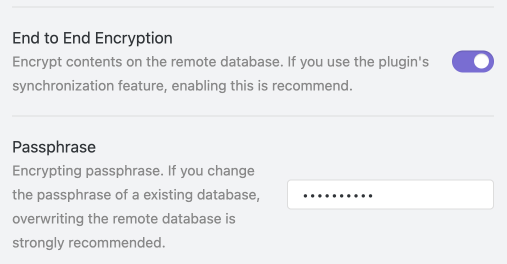
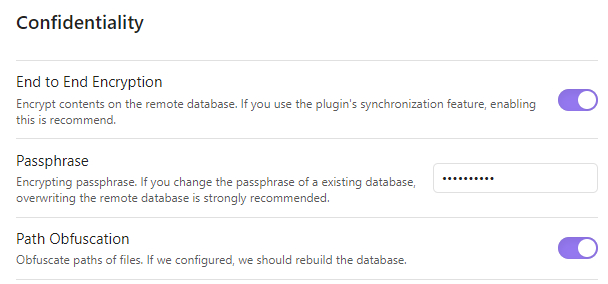
Update docs

diff --git a/docs/quick_setup.md b/docs/quick_setup.md
@@ -1,17 +1,17 @@
 # Quick setup
-The Setup wizard has been implemented since v0.15.0 simplifying the initial setup.
+The plugin has so many configuration options to deal with different circumstances. However, there are not so many settings that are actually used. Therefore, `The Setup wizard` has been implemented to simplify the initial setup.
 
-Note: Subsequent devices should be set up using the `Copy setup URI` and `Open setup URI` functionality.
+Note: Subsequent devices are recommended to be set up using the `Copy setup URI` and `Open setup URI`.
 
-## How to open and use the wizard
-Open the `🪄 Setup wizard` in the settings dialogue. If the plugin has not been configured before, it should already be open.
+## The Setup wizard
+Open the `🧙♂ Setup wizard` in the settings dialogue. If the plugin has not been configured before, it should already be open.
 
 ![](../images/quick_setup_1.png)
 
-### Discard the existing configuration and set up
+- Discard the existing configuration and set up  
 If you have changed any settings, this button allows you to discard all changes before setting up.
 
-### Do not discard the existing configuration and set up
+- Do not discard the existing configuration and set up  
 Simply reconfigure. Be careful. In wizard mode, you cannot see all configuration items, even if they have been configured.
 
 Pressing `Next` on one of the above options will put the configuration dialog into wizard mode.
@@ -30,17 +30,10 @@ Enter the information for the database we have set up.
 
 ![](../images/quick_setup_3.png)  
 
-### End to End Encryption
 
-![](../images/quick_setup_4.png)
+#### Test database connection and Check database configuration
 
-When End to End encryption is enabled, a third party will be less likely to be able to read your Remote database in the event of a data breach/leak (assuming they do not know the Passphrase). We strongly recommend enabling it.  
-Encryption is based on 256-bit AES-GCM.  
-This setting can be disabled if you are inside a closed network and it is clear that you will not be accessed by third parties.
-
-### Test database connection and Check database configuration
-
-Here we can check the status of the connection to the database and the database settings.  
+We can check the connectivity to the database, and the database settings.
 
 ![](../images/quick_setup_5.png)  
 
@@ -49,38 +42,36 @@ Check whether we can connect to the database. If it fails, there are several pos
 
 #### Check database configuration
 
-Check the database settings and fix any deficiencies on the spot.
+Check the database settings and fix any problems on the spot.
 
 ![](../images/quick_setup_6.png)
 
 This item may vary depending on the connection. In the above case, press all three Fix buttons.  
 If the Fix buttons disappear and all become check marks, we are done.
 
+
+### Confidentiality configuration
+
+![](../images/quick_setup_4.png)
+
+Encrypt your database in case of unintended database exposure; enable End to End encryption and the contents of your notes will be encrypted at the moment it leaves the device. We strongly recommend enabling it. And `Path Obfuscation` also obfuscates filenames. Now stable and recommended.  
+Encryption is based on 256-bit AES-GCM.  
+These setting can be disabled if you are inside a closed network and it is clear that you will not be accessed by third parties.
+
 ![](../images/quick_setup_7.png)
 
-### Next 
-Go to the Local Database configuration.
+#### Next 
+Go to the Sync Settings.
 
-### Discard existing database and proceed
-Discard the contents of the Remote database and go to the Local Database configuration.
+#### Discard existing database and proceed
+Discard the contents of the Remote database and go to the Sync Settings.
 
-## Local Database configuration
-
-![](../images/quick_setup_8.png)
-
-Configure the local database. If we already have a Vault with Self-hosted LiveSync installed which has the same directory name as the one we are currently setting up, please specify a different suffix than the Vault you have already set up here.
-
-## Miscellaneous
-Finally, finish the miscellaneous configurations and select a preset for synchronisation.
+### Sync Settings
+Finally, finish the wizard by selecting a preset for synchronisation.
 
 ![](../images/quick_setup_9_1.png)
 
-The `Show status inside editor` can be enabled to your liking. If enabled, the status is displayed in the top right-hand corner of the editor. Learn how to read the status bar [here](/README.md#information-in-statusbar).
-
-![](../images/quick_setup_9_2.png)
-
-From Presets, select the synchronisation method we want to use and `Apply` to initialise and build the local and remote databases as required.  
-If `All done!' is displayed, we are done. Automatically, `Copy setup URI` will open and we will be asked for a passphrase to encrypt the `Setup URI`.
+Select any synchronisation methods we want to use and `Apply` to initialise and build the local and remote databases as required. If `All done!` is displayed, we are done. Automatically, `Copy setup URI` will open and we will be asked for a passphrase to encrypt the `Setup URI`.
 
 ![](../images/quick_setup_10.png)
 
